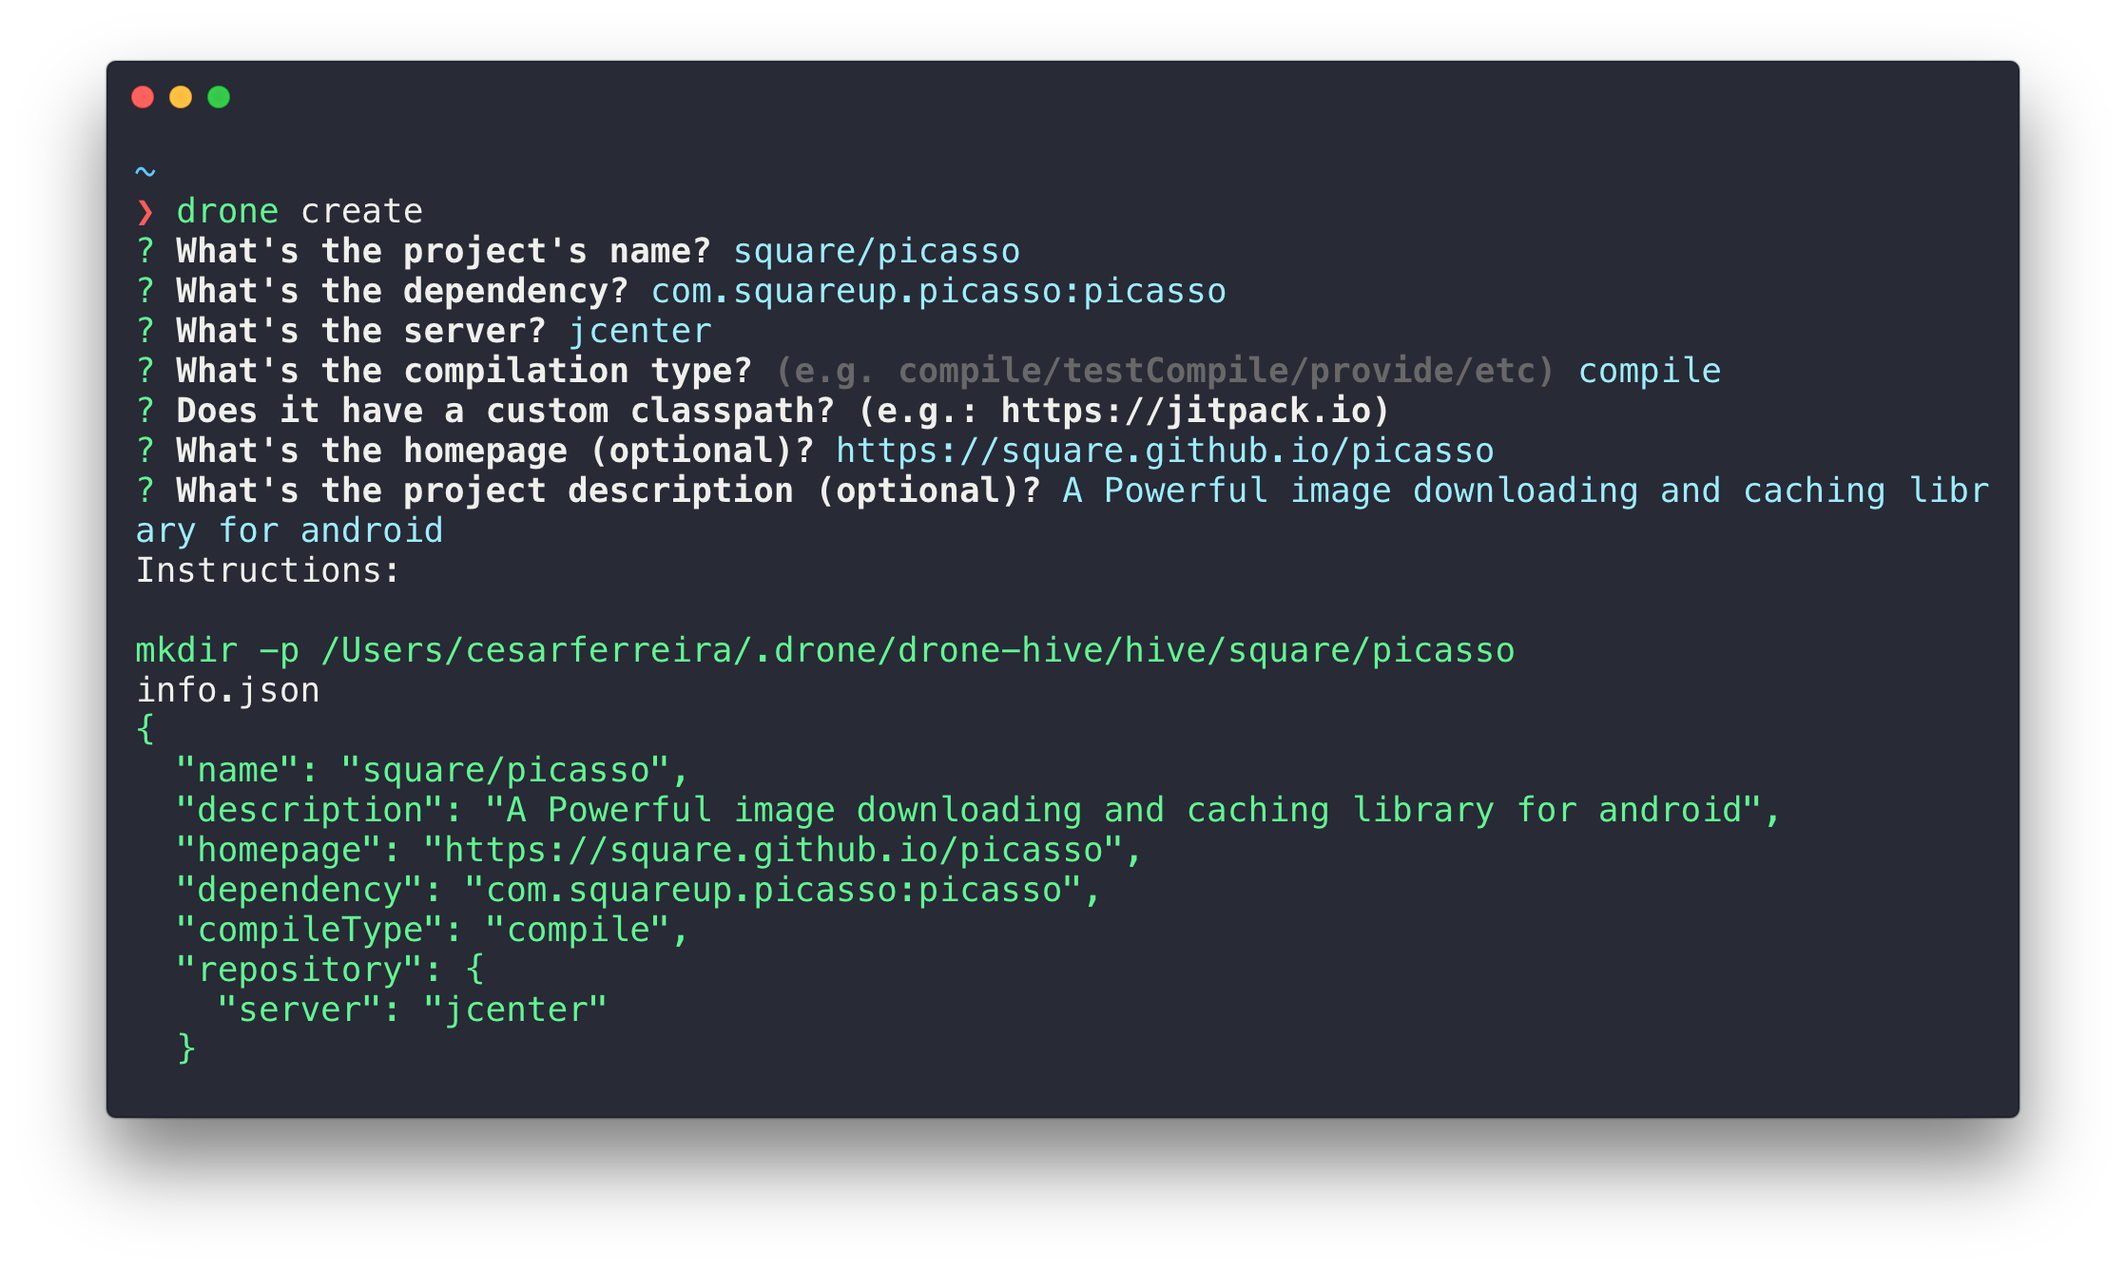
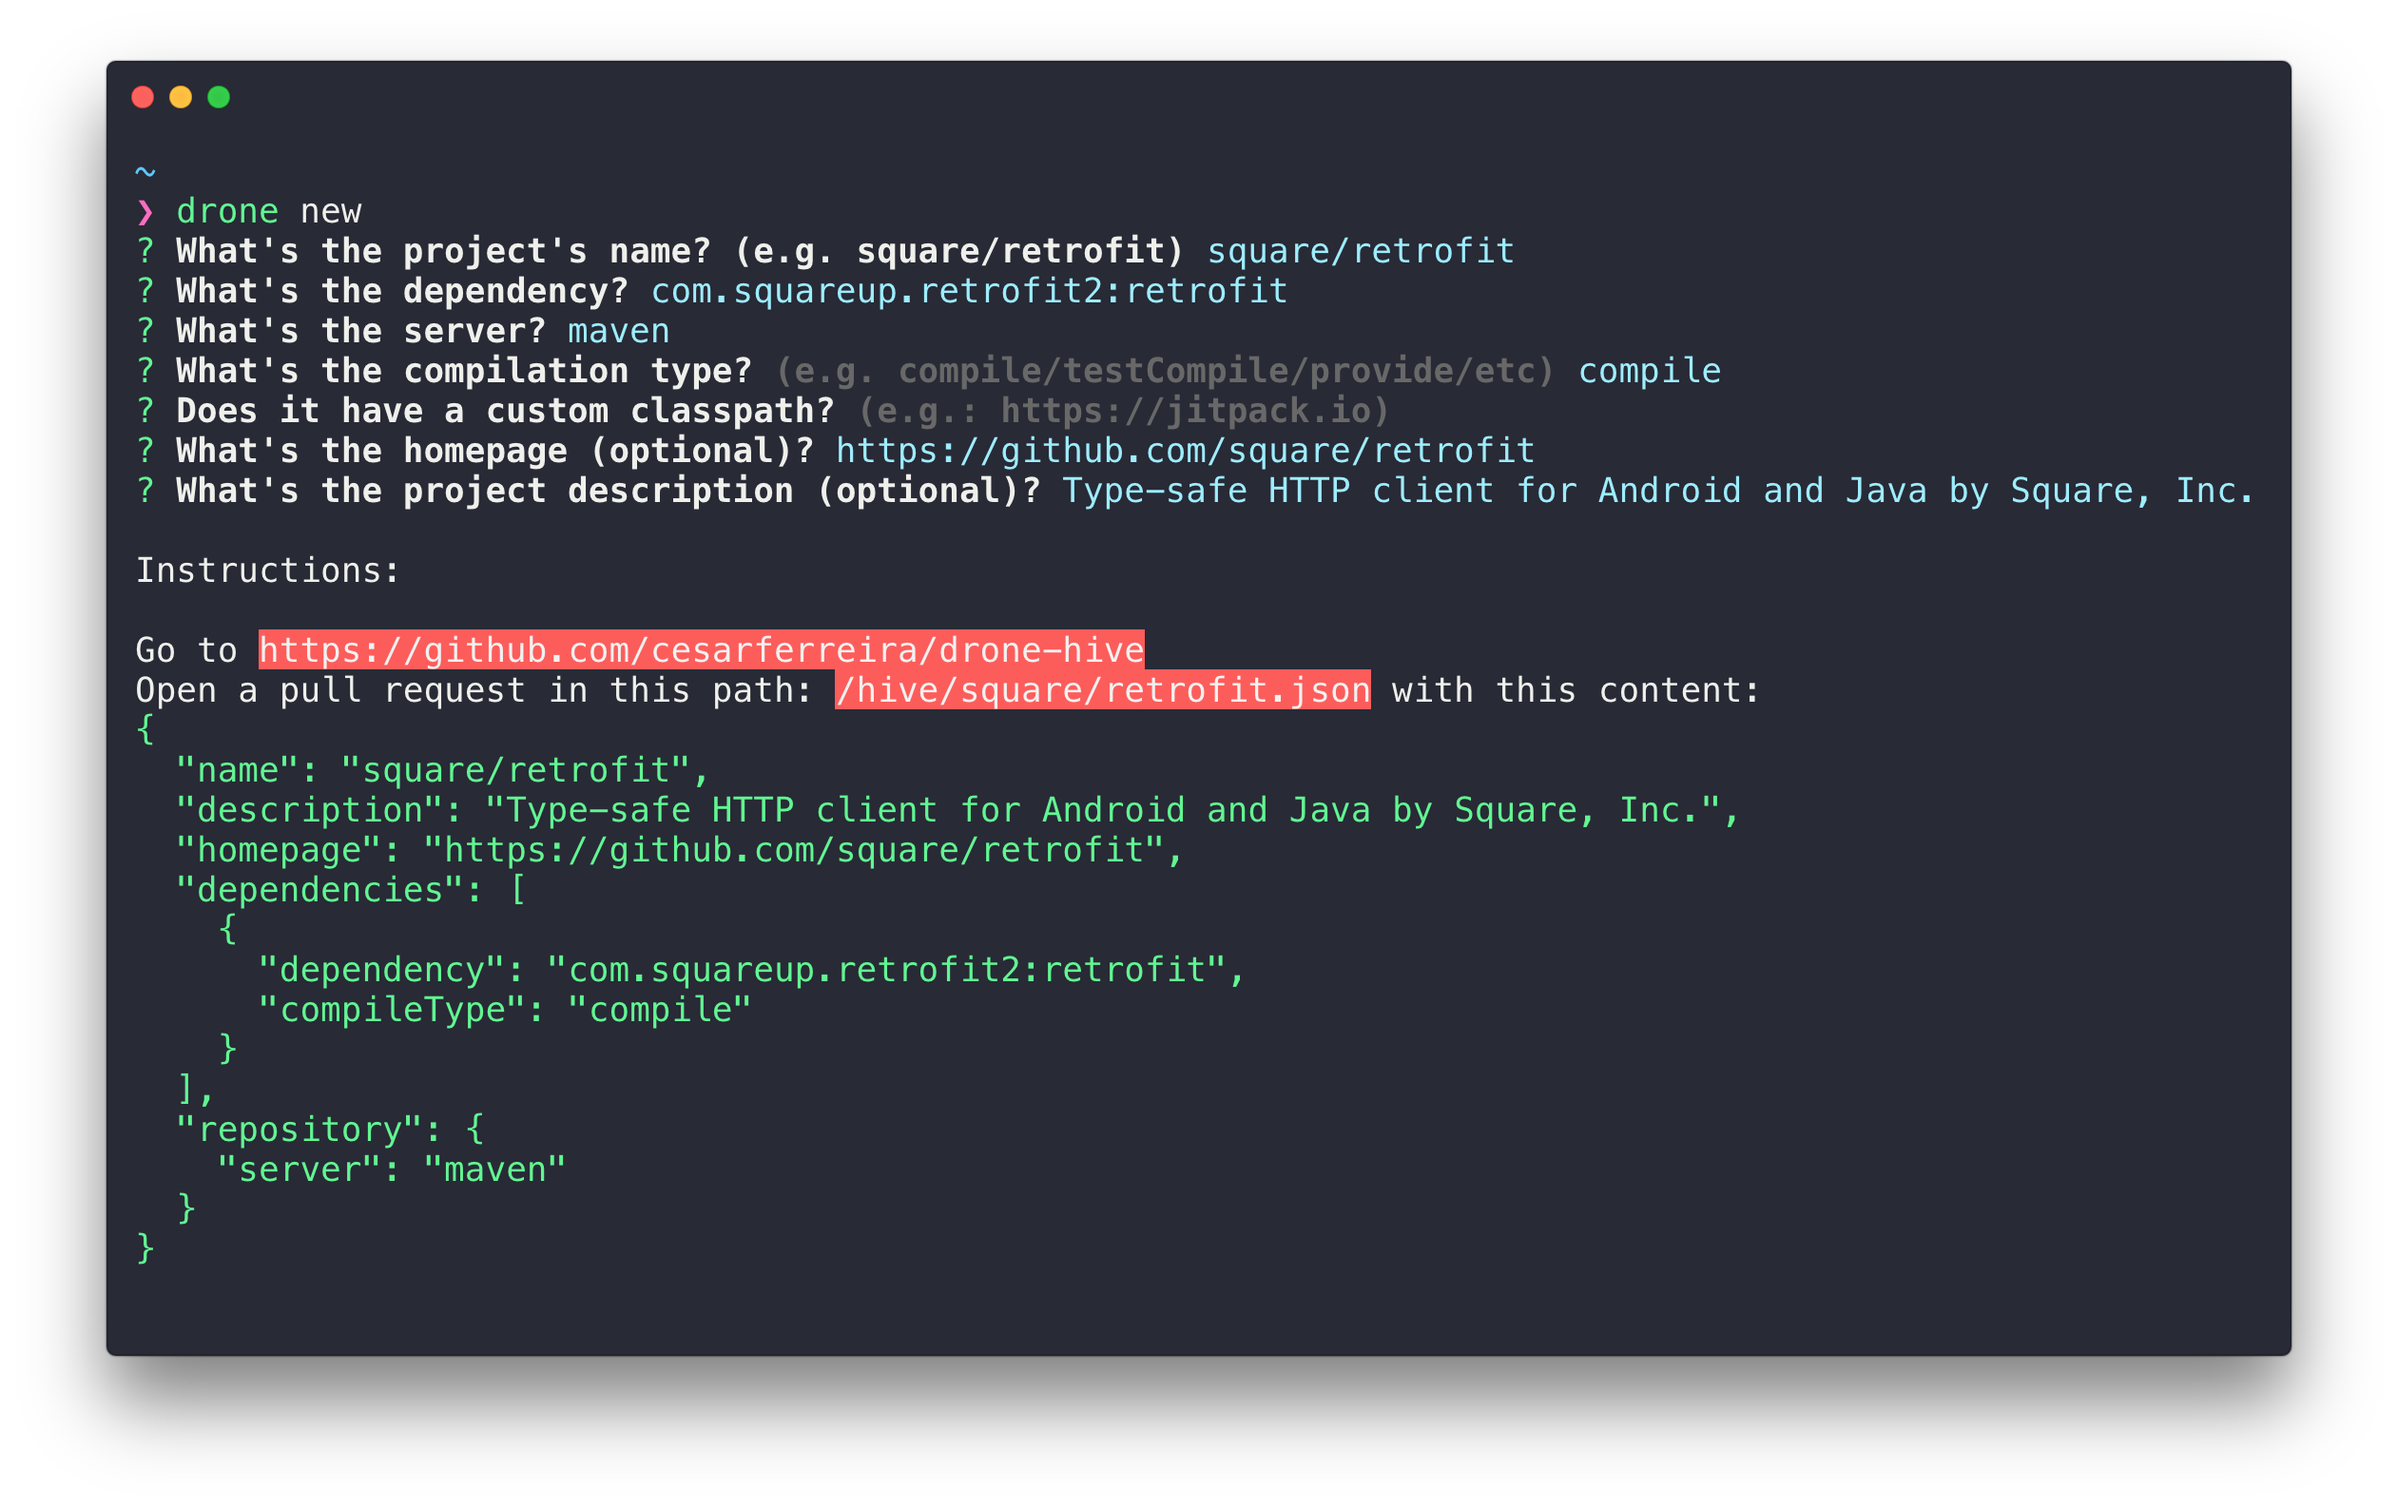
updated readme

Changed region(s): [[0.0309, 0.0307, 0.9566, 0.9513], [0.648, 0.6138, 0.8332, 0.6445], [0.6789, 0.4296, 0.7097, 0.4603]]

diff --git a/cli.js b/cli.js
@@ -21,7 +21,7 @@ Usage
    $ drone stats                              # Get some stats regarding the hive
    $ drone hive                               # Opens the hive url
    $ drone open <creator/library>             # Opens the library's homepage
-   $ drone create                             # Creates a new one if it's not in the server yet
+   $ drone new                                # Creates a new one if it's not in the server yet
    $ drone search <library>                   # Searches for the 'library' in the hive
 
  Examples
@@ -30,7 +30,7 @@ Usage
    $ drone info square/picasso                # Shows the info for square/picasso
    $ drone add square/retrofit app            # Adds retrofit to the 'app' module 
    $ drone open google/gson                   # Opens GSONs homepage
-   $ drone create                             # takes you throught the creation wizard
+   $ drone new                                # takes you throught the creation wizard
    $ drone search rxjava                      # Searches the hive for 'rxjava'
    $ drone test square/picasso                # Tests the library by fetching its version
 `,

diff --git a/README.md b/README.md
@@ -36,7 +36,7 @@ Usage
    $ drone stats                              # Get some stats regarding the hive
    $ drone hive                               # Opens the hive url
    $ drone open <creator/library>             # Opens the library's homepage
-   $ drone create                             # Creates a new one if it's not in the server yet
+   $ drone new                                # Creates a new one if it's not in the server yet
    $ drone search <library>                   # Searches for the 'library' in the hive
 
  Examples
@@ -45,7 +45,7 @@ Usage
    $ drone info square/picasso                # Shows the info for square/picasso
    $ drone add square/retrofit app            # Adds retrofit to the 'app' module 
    $ drone open google/gson                   # Opens GSONs homepage
-   $ drone create                             # takes you throught the creation wizard
+   $ drone new                                # takes you throught the creation wizard
    $ drone search rxjava                      # Searches the hive for 'rxjava'
    $ drone test square/picasso                # Tests the library by fetching its version
 ```
@@ -56,7 +56,7 @@ Instead of maintaining a server with all the possible libraries I'm going with a
 
 > $ drone create
 
-follow the wizard to generate the `<library≥.json` file then open the pull request in the [hive](https://github.com/cesarferreira/drone-hive) with this format: 
+follow the wizard to generate the `<library>.json` file then open the pull request in the [hive](https://github.com/cesarferreira/drone-hive) with this format: 
 > **hive/`<creator/library>`.json**
 
 
